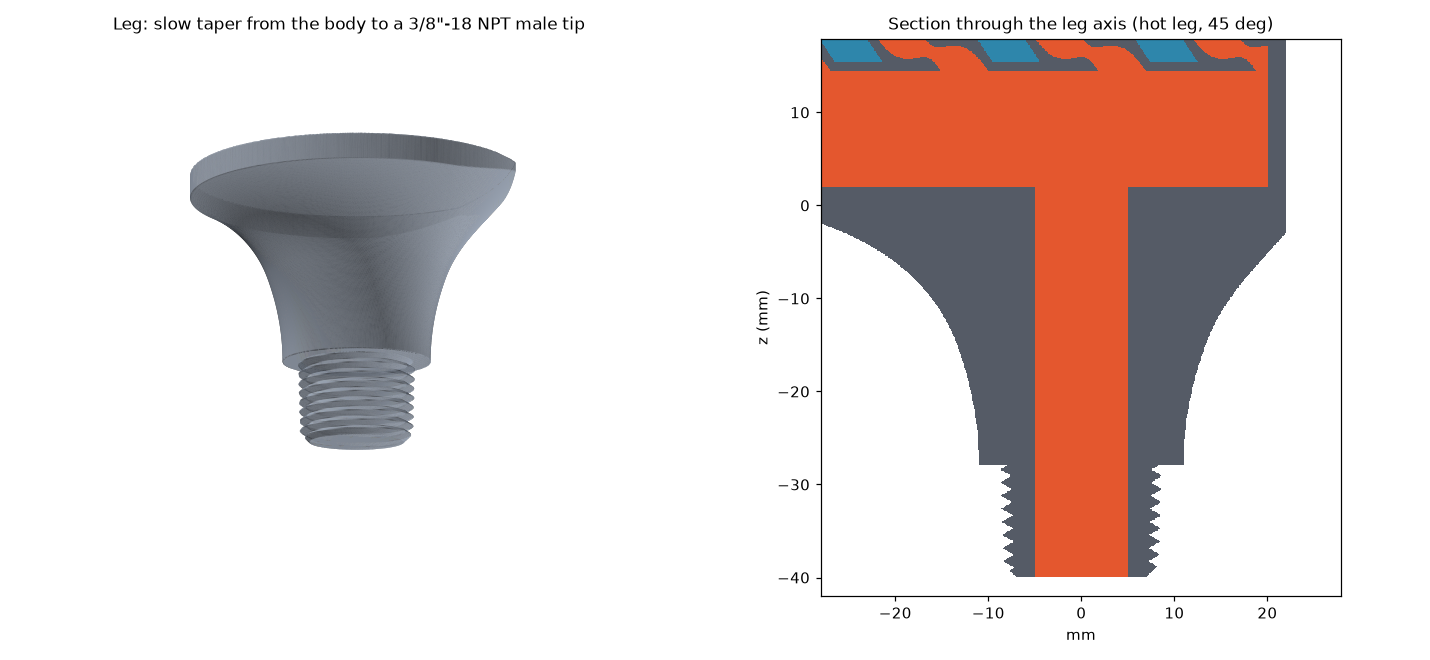
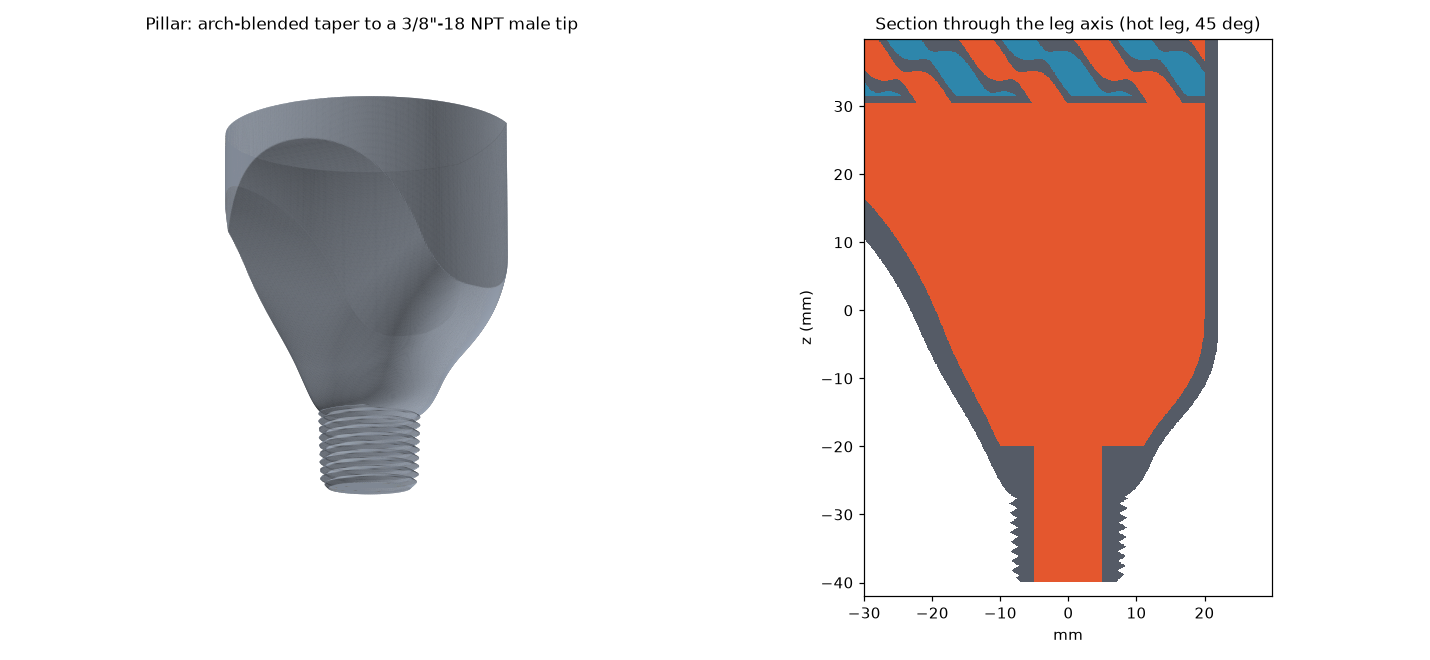
Concept: deep groin-vault arch blending cylinder into tapered NPT pillars
Claude-Session: https://claude.ai/code/session_01Ccuvv7knuVFwKVpBMimzZu

diff --git a/heat-exchanger/cyl_hx_concept.py b/heat-exchanger/cyl_hx_concept.py
@@ -9,9 +9,12 @@ thicker than a printable design would use so they show at this resolution.
 
 Layout (mm, origin at centre of cylinder base):
     Cylinder: radius R, from z = 0 to z = HB, top edge rounded.
-    Legs at 45, 135, 225, 315 deg, LEG_H = 40 mm long (z = -40 to 0).
-    Each leg is a slow trumpet taper out of the cylinder underside that
-    ends in a 3/8"-18 NPT MALE threaded tip (ASME B1.20.1 basic sizes).
+    A deep groin-vault arch (two crossing elliptical arches, apex at
+    z = Z_APEX inside the body) is cut through the lower cylinder, leaving
+    four pillars at 45, 135, 225, 315 deg. The pillars continue the
+    cylinder wall and taper slowly down to a shoulder at z = -SKIRT, then a
+    3/8"-18 NPT MALE threaded tip ends at z = -LEG_H (ASME B1.20.1 basic).
+    Headers sit inside the pillars and follow the arch surface.
     HOT  legs: 45 and 225 deg (in / out)   COLD legs: 135 and 315 deg.
     Bottom header split into four quadrant plenums, one per leg.
     Gyroid core above the headers; a seal slab lets each fluid's
@@ -28,12 +31,17 @@ from skimage.measure import marching_cubes
 
 R, HB, R_TOP = 70.0, 90.0, 10.0       # cylinder radius, height, top rounding
 SHELL = 2.0
-LEG_H = 40.0                          # leg length below the cylinder
-R_BASE = 22.0                         # leg radius where it leaves the body
-R_NECK = 11.0                         # leg radius just above the thread
-LEG_POS = R - R_BASE                  # leg base flush with the outer wall
-BLEND = 15.0                          # extra fillet at the leg/body joint
+LEG_H = 40.0                          # tip depth below the body datum z = 0
+SKIRT = 28.0                          # pillar shoulder depth (thread below it)
+R_NECK = 11.0                         # pillar radius at the shoulder
+LEG_POS = 48.0                        # radius of the leg axes
+Z_APEX = 20.0                         # arch apex, cut up into the body
+ARCH_A = 23.5                         # arch half-width at the base
+Z_ARCH0 = -40.0                       # ellipse base (below the tips: no
+                                      # vertical arch walls, slow blend)
+K_ARCH = 6.0                          # fillet where arch meets wall/pillar
 BORE_R = 5.0                          # 10 mm flow bore
+ZP_LOW = -20.0                        # headers reach down into the pillars
 
 # 3/8"-18 NPT external thread (ASME B1.20.1 basic values)
 IN = 25.4
@@ -42,7 +50,7 @@ NPT_E0 = 0.61201 * IN                 # 15.545 mm pitch dia at the tip
 NPT_H = 0.8 * NPT_P                   # truncated thread height
 NPT_TAPER = 1.0 / 16.0                # on diameter
 THREAD_L = 12.0                       # threaded length (L2 = 10.2 mm)
-ZP = 14.0                             # header (plenum) height
+ZP = 30.0                             # core starts here (above the arch)
 DV = 2.0                              # divider between quadrant plenums
 S_SEAL = 1.5
 CELL = 12.0
@@ -56,13 +64,14 @@ def smin(a, b, k):
 
 
 def cylinder(x, y, z):
-    """Vertical cylinder with rounded top edge (sharp bottom, legs blend there)."""
+    """Vertical cylinder, rounded top edge, flat bottom at z = -SKIRT."""
     r = np.hypot(x, y)
-    zc = z - HB / 2
-    qx, qz = r - (R - R_TOP), np.abs(zc) - (HB / 2 - R_TOP)
+    hh = (HB + SKIRT) / 2                 # half height, z = -SKIRT .. HB
+    zc = z - (HB - SKIRT) / 2
+    qx, qz = r - (R - R_TOP), np.abs(zc) - (hh - R_TOP)
     top = np.hypot(np.maximum(qx, 0), np.maximum(qz, 0)) \
         + np.minimum(np.maximum(qx, qz), 0) - R_TOP
-    return np.maximum(top, np.maximum(r - R, -z))
+    return top
 
 
 def leg_xy(a):
@@ -70,31 +79,48 @@ def leg_xy(a):
     return LEG_POS * np.cos(t), LEG_POS * np.sin(t)
 
 
-def leg(x, y, z, a):
-    """Tapered leg: trumpet flare from R_BASE at the body to R_NECK at the
-    thread shoulder, then a 3/8-18 NPT male thread down to the tip."""
+def smax(a, b, k):
+    return -smin(-a, -b, k)
+
+
+def arches(x, y, z):
+    """Groin vault: union of two elliptical tunnels along x and along y.
+    Value < 0 inside the cut."""
+    hz = Z_APEX - Z_ARCH0
+    e = lambda w: np.sqrt((w / ARCH_A) ** 2 + ((z - Z_ARCH0) / hz) ** 2) - 1
+    scale = min(ARCH_A, hz)               # rough distance scaling
+    return np.minimum(e(y), e(x)) * scale
+
+
+def taper(x, y, z):
+    """Envelope that narrows each pillar to R_NECK at the shoulder:
+    radius grows as a parabola going up, so the pillar flares slowly
+    into the cylinder wall."""
+    u = np.clip((z + SKIRT) / (SKIRT + 10.0), 0, None)
+    r_env = R_NECK + 55.0 * u ** 2
+    d = []
+    for a, _ in LEGS:
+        lx, ly = leg_xy(a)
+        d.append((np.hypot(x - lx, y - ly) - r_env) / np.sqrt(1 + (110 * u / 38) ** 2))
+    return np.minimum.reduce(d)
+
+
+def npt_tip(x, y, z, a):
+    """3/8-18 NPT male thread from the shoulder (z = -SKIRT) to the tip,
+    right-handed about the outward (-z) axis."""
     lx, ly = leg_xy(a)
     dx, dy = x - lx, y - ly
-    rho, t = np.hypot(dx, dy), -z                  # t = depth below body
-    t1 = LEG_H - THREAD_L                          # end of the flare
-    u = np.clip(t / t1, 0, 1)
-    r_prof = R_NECK + (R_BASE - R_NECK) * (1 - u) ** 2
-    slope = 2 * (R_BASE - R_NECK) * (1 - u) / t1
-    flare = (rho - r_prof) / np.sqrt(1 + slope ** 2)
-    flare = np.maximum(flare, np.maximum(z - 1.0, t - t1))
-
-    # NPT thread, right-handed about the outward (-z) axis
-    s_tip = LEG_H - t                              # distance from the tip
+    rho, t = np.hypot(dx, dy), -z
+    s_tip = LEG_H - t
     th = np.arctan2(dx, dy)
     rp = (NPT_E0 + np.maximum(s_tip, 0) * NPT_TAPER) / 2
     w = np.mod(t - NPT_P * th / (2 * np.pi), NPT_P) - NPT_P / 2
     r_thr = rp + np.tan(np.radians(60)) * (NPT_P / 4 - np.abs(w))
     r_thr = np.clip(r_thr, rp - NPT_H / 2, rp + NPT_H / 2)
     thr = 0.5 * (rho - r_thr)
-    thr = np.maximum(thr, -s_tip)                  # cut at the tip
-    thr = np.maximum(thr, (rho - rp) - (s_tip - 0.8))   # tip chamfer
-    thr = np.maximum(thr, s_tip - (THREAD_L + 1.0))     # runs into shoulder
-    return np.minimum(flare, thr)
+    thr = np.maximum(thr, -s_tip)
+    thr = np.maximum(thr, (rho - rp) - (s_tip - 0.8))
+    return np.maximum(thr, s_tip - (LEG_H - SKIRT + 1.0))
 
 
 def sector(x, y, a):
@@ -112,12 +138,10 @@ def gyroid(x, y, z):
 
 
 def fields(x, y, z):
-    outer = cylinder(x, y, z)
+    outer = smax(cylinder(x, y, z), -arches(x, y, z), K_ARCH)
+    outer = smax(outer, taper(x, y, z), K_ARCH)
     for a, _ in LEGS:
-        outer = smin(outer, leg(x, y, z, a), BLEND)
-    # trim the blend to the cylinder wall: legs stay flush, the blend only
-    # forms the arches underneath instead of bulging outwards
-    outer = np.maximum(outer, np.hypot(x, y) - R)
+        outer = np.minimum(outer, npt_tip(x, y, z, a))
     inner = outer + SHELL
 
     G = gyroid(x, y, z)
@@ -130,9 +154,9 @@ def fields(x, y, z):
 
     for a, f in LEGS:
         lx, ly = leg_xy(a)
-        plen = np.maximum(np.maximum(SHELL - z, z - (ZP + 0.5)),
+        plen = np.maximum(np.maximum(ZP_LOW - z, z - (ZP + 0.5)),
                           np.maximum(inner, sector(x, y, a)))
-        bore = np.maximum(np.hypot(x - lx, y - ly) - BORE_R, z - (SHELL + 1.0))
+        bore = np.maximum(np.hypot(x - lx, y - ly) - BORE_R, z - (ZP_LOW + 1.0))
         v = np.minimum(plen, bore)
         if f == "hot":
             hot = np.minimum(hot, v)
@@ -194,10 +218,10 @@ def main():
     lx, ly = leg_xy(45)
     fs = 0.15
     gx = np.arange(lx - 26, lx + 26, fs); gy = np.arange(ly - 26, ly + 26, fs)
-    gz = np.arange(-41.5, 2, fs)
+    gz = np.arange(-41.5, 24, fs)
     Xl, Yl, Zl = np.meshgrid(gx, gy, gz, indexing="ij")
     ol, _, _, _ = fields(Xl, Yl, Zl)
-    ol = np.maximum(ol, Zl - 0.5)                  # leg only, below the body
+    ol = np.maximum(ol, Zl - 22.0)                 # pillar only, up to the arch apex
     ol = np.maximum(ol, np.hypot(Xl - lx, Yl - ly) - 25)
     del Xl, Yl, Zl
     v, f = mesh(ol, fs, np.array([gx[0], gy[0], gz[0]]))
@@ -205,11 +229,11 @@ def main():
     fig = plt.figure(figsize=(13, 6), dpi=110)
     ax = fig.add_subplot(1, 2, 1, projection="3d")
     ax.add_collection3d(Poly3DCollection(tri, facecolors=col, edgecolor="none"))
-    ax.set_xlim(lx - 26, lx + 26); ax.set_ylim(ly - 26, ly + 26); ax.set_zlim(-42, 2)
-    ax.set_box_aspect((52, 52, 44)); ax.view_init(-12, -60); ax.set_axis_off()
-    ax.set_title("Leg: slow taper from the body to a 3/8\"-18 NPT male tip", fontsize=11)
+    ax.set_xlim(lx - 26, lx + 26); ax.set_ylim(ly - 26, ly + 26); ax.set_zlim(-42, 24)
+    ax.set_box_aspect((52, 52, 66)); ax.view_init(-12, -60); ax.set_axis_off()
+    ax.set_title("Pillar: arch-blended taper to a 3/8\"-18 NPT male tip", fontsize=11)
     ax = fig.add_subplot(1, 2, 2)
-    q = np.arange(-28, 28, 0.08); qz = np.arange(-42, 18, 0.08)
+    q = np.arange(-30, 30, 0.08); qz = np.arange(-42, 40, 0.08)
     Q, QZ = np.meshgrid(q, qz, indexing="ij")
     tt = np.radians(45)
     _, s2, h2, c2 = fields(lx + Q * np.cos(tt), ly + Q * np.sin(tt), QZ)
@@ -229,7 +253,7 @@ def main():
         return m
     g = np.arange(-75, 75.01, 0.25)
     fig, axs = plt.subplots(1, 4, figsize=(20, 5.6), dpi=110)
-    for ax, zc, t in [(axs[0], 8.0, "Header level z = 8 mm\n(4 quadrant plenums)"),
+    for ax, zc, t in [(axs[0], 24.0, "Header level z = 24 mm\n(4 quadrant plenums above the arches)"),
                       (axs[1], 45.0, "Core z = 45 mm\n(interleaved gyroid channels)")]:
         Xs, Ys = np.meshgrid(g, g, indexing="ij")
         _, s, h, c = fields(Xs, Ys, np.full_like(Xs, zc))
